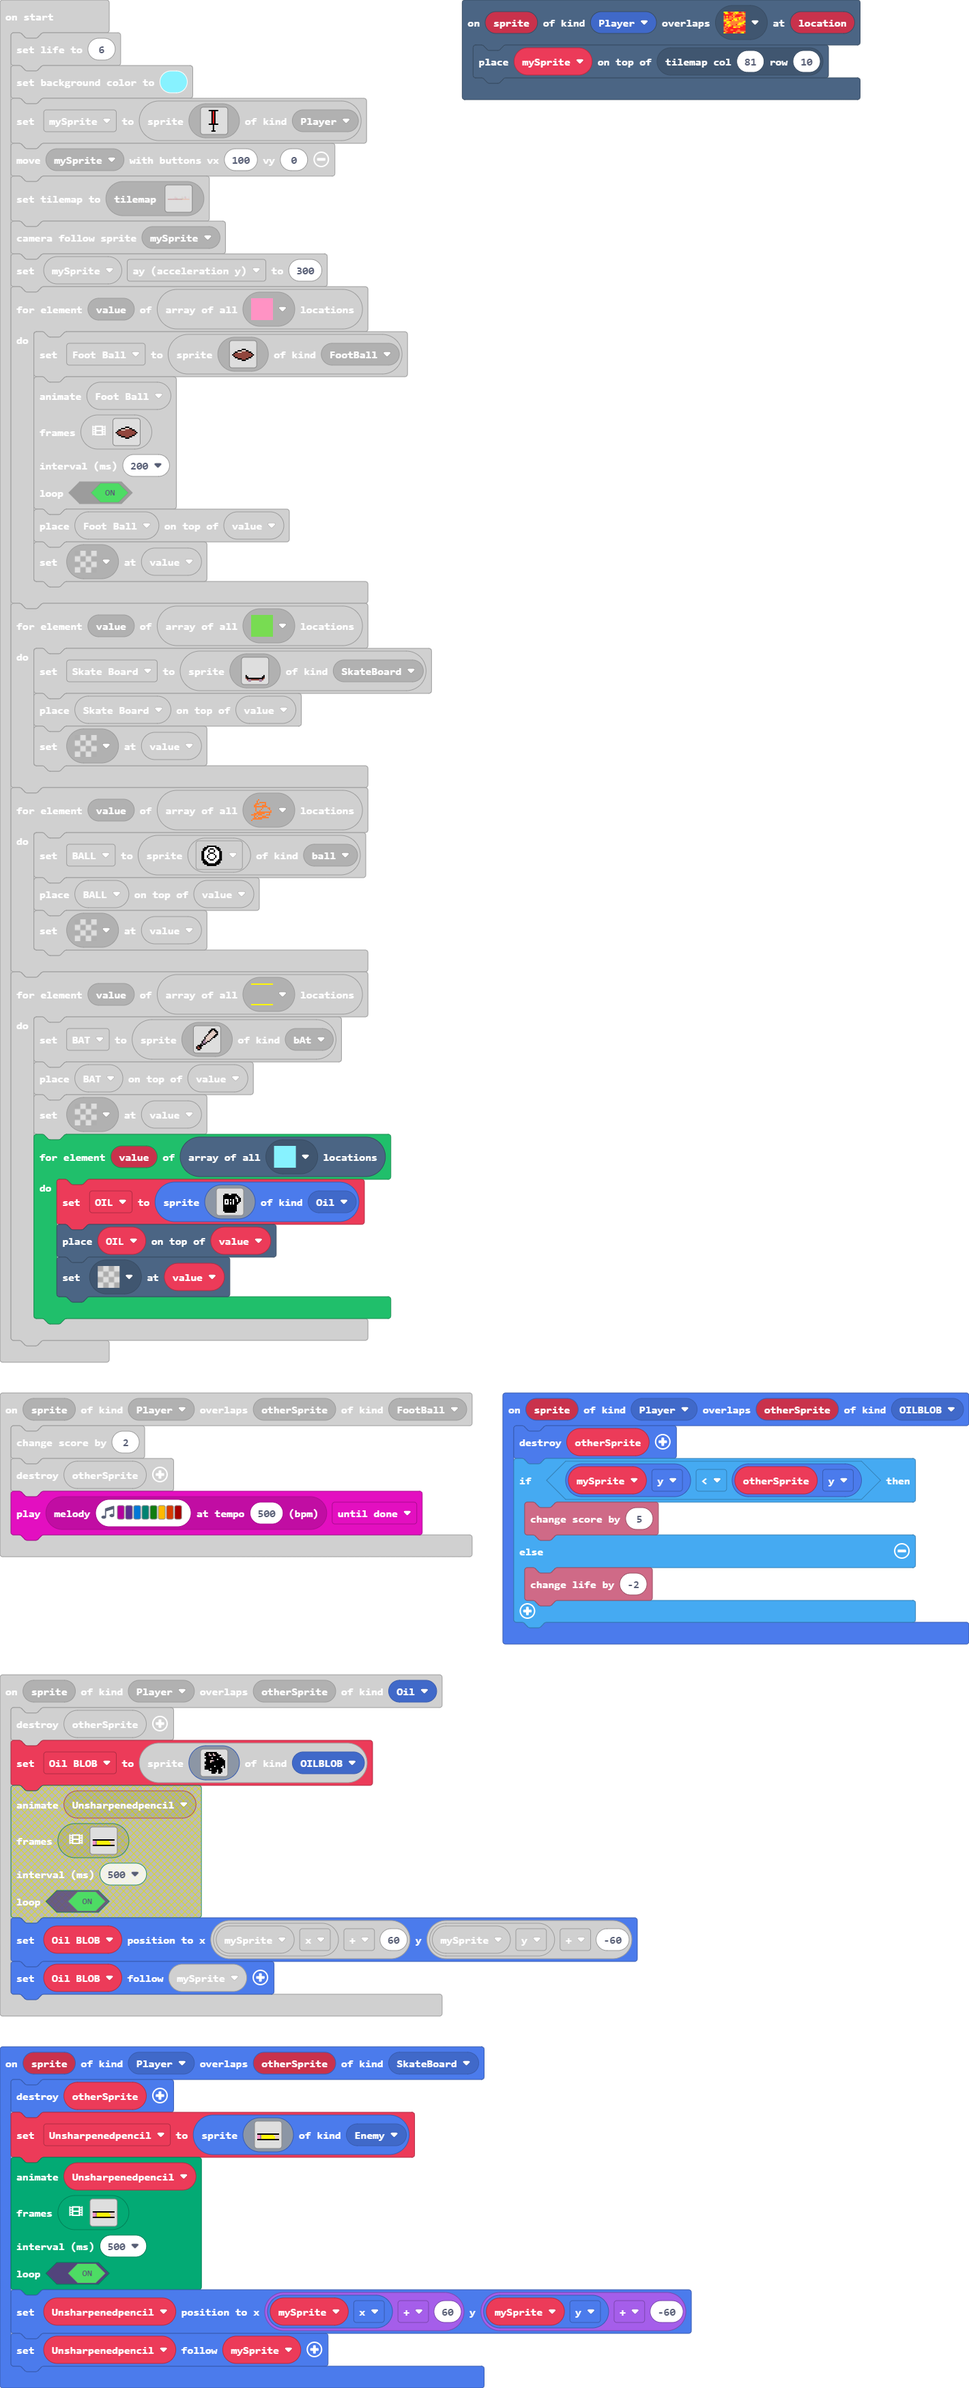
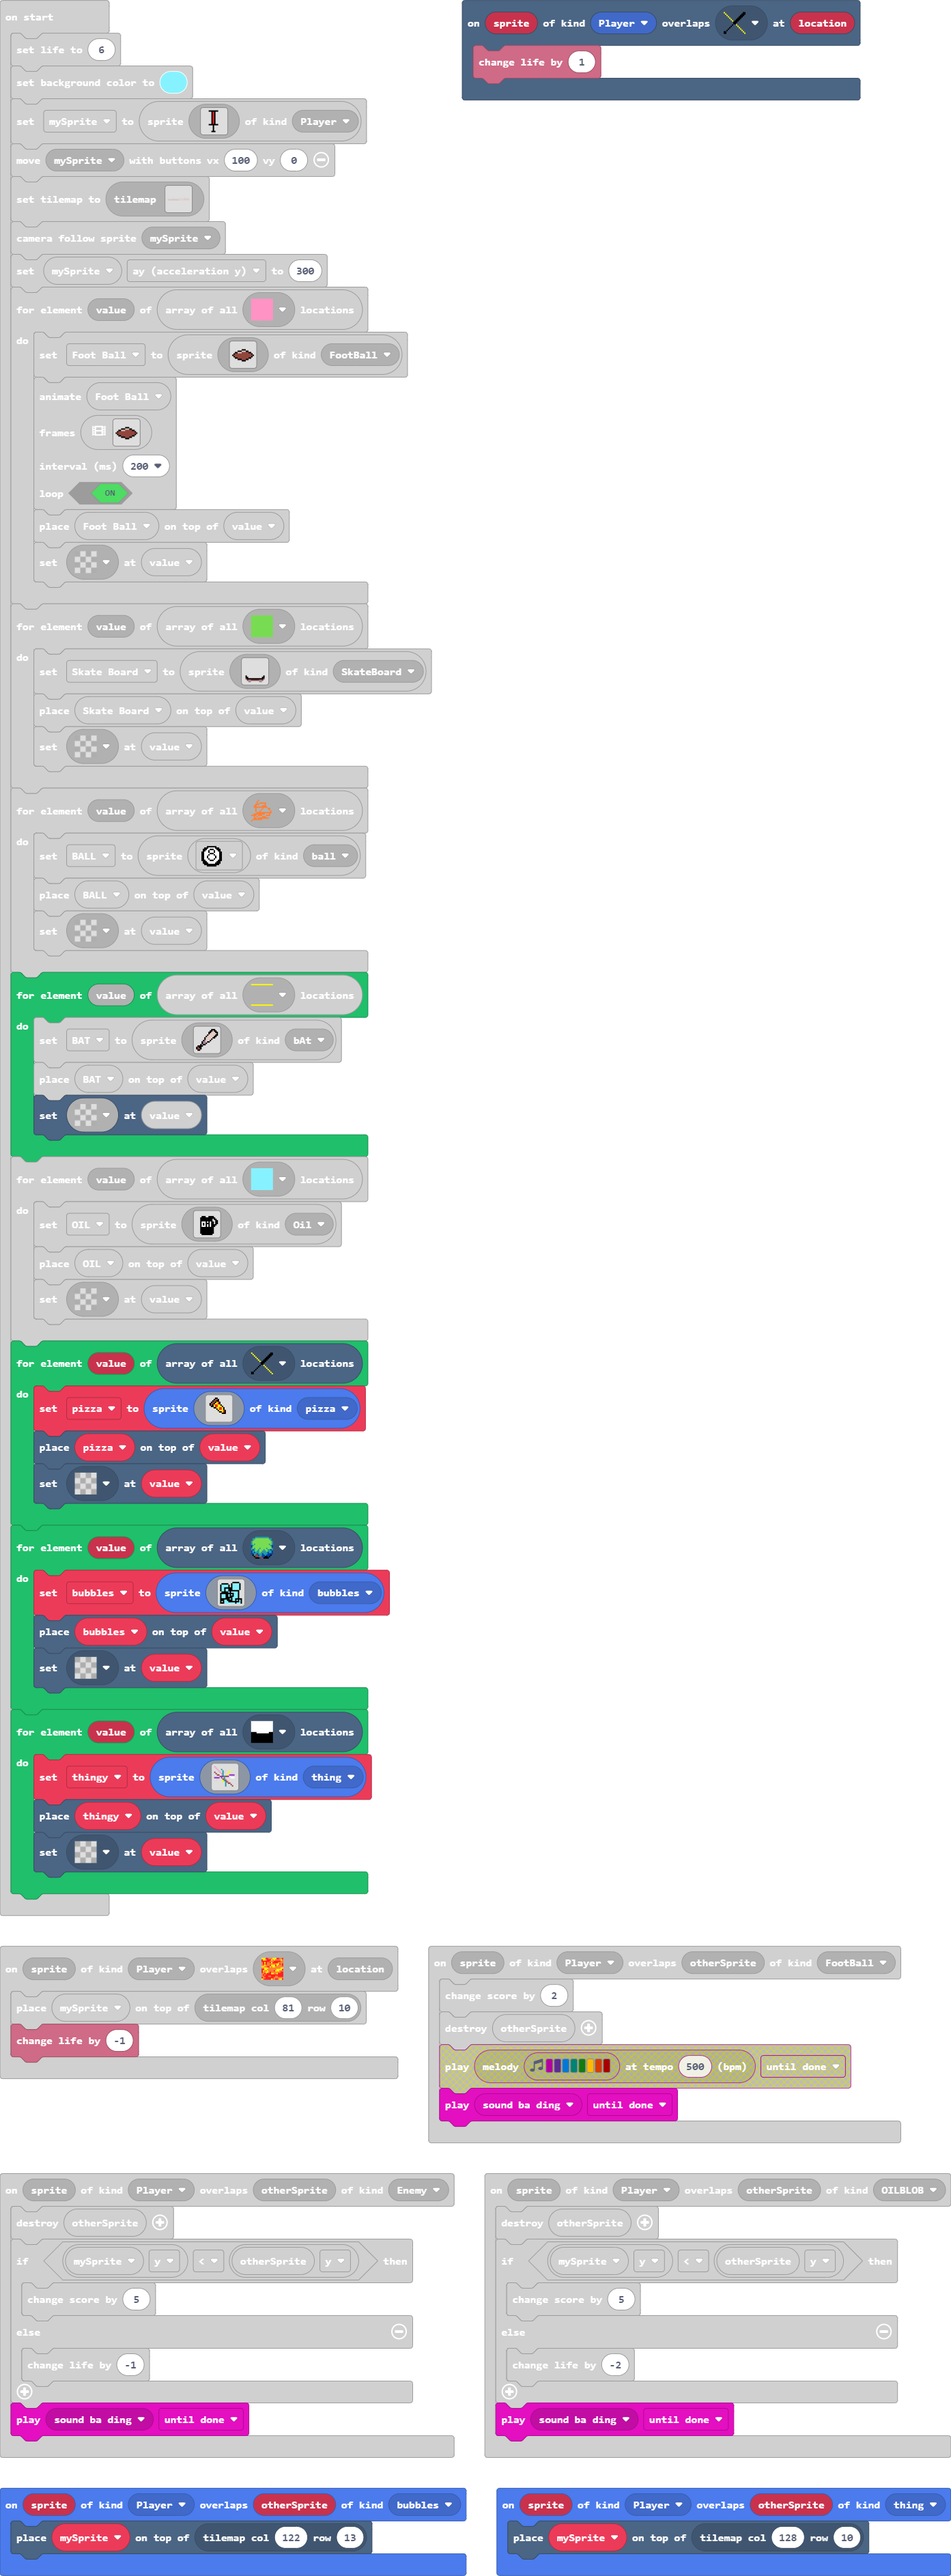
Update pxt.json, main.blocks, main.ts, tilemap.g.jres, tilemap.g.ts

diff --git a/tilemap.g.ts b/tilemap.g.ts
@@ -26,6 +26,10 @@ namespace myTiles {
     export const tile11 = image.ofBuffer(hex``);
     //% fixedInstance jres blockIdentity=images._tile
     export const tile12 = image.ofBuffer(hex``);
+    //% fixedInstance jres blockIdentity=images._tile
+    export const tile13 = image.ofBuffer(hex``);
+    //% fixedInstance jres blockIdentity=images._tile
+    export const tile14 = image.ofBuffer(hex``);
 
     helpers._registerFactory("tilemap", function(name: string) {
         switch(helpers.stringTrim(name)) {
@@ -49,24 +53,24 @@ namespace myTiles {
 . . . . . . . . . . . . . . . . 
 `, [myTiles.transparency16], TileScale.Sixteen);
             case "level2":
[1 lines of base64/hex data omitted]
-........................................2.......................................2.......................................
-........................................2.......................................2.............222.2...................2.
-........................................2.......................................2............2..2.2.....................
-........................................2.......................................2...........2...2.2.................2...
-........................................2.........2.............................2..........2....2.2.....................
-........................................2.........2.............................2.........2.....2.2................2....
-........................................2.........2.............................2........2......2.2.....................
-.......................................22.........2.............................2.......2.......2.2..................2..
-........................................2.........2.............................2......2........2.2.....................
-.....................................2..2.........2.............................2.....2.........2.2....................2
-........................................2.......2.2.................222........22....2..........2.2.................2...
-...........22................222...2....2......22.2....2..........2.............2..22...................................
-....................22...22.............2.....222.2.......2..2..2.............2.222..............22.2..2...2......2.....
-.......22......222...............2......22222.....2..2..................2....2..2...............................2.......
-222222..................................2.........2.2......................2....2.......................................
-........................................2.......................................2.......................................
-`, [myTiles.transparency16,myTiles.tile1,myTiles.tile2,myTiles.tile3,myTiles.tile5,myTiles.tile7,myTiles.tile8,myTiles.tile9,myTiles.tile4,myTiles.tile10,myTiles.tile11,myTiles.tile12], TileScale.Sixteen);
[1 lines of base64/hex data omitted]
+........................................2.......................................2.......................................2.......................................
+........................................2.......................................2.............222.2...................2.2.......................................
+........................................2.......................................2............2..2.2.....................2......................222222...........
+........................................2.......................................2...........2...2.2.................2...2......222...........2..2...............
+........................................2.........2.............................2..........2....2.2.....................2...2222................2...............
+........................................2.........2.............................2.........2.....2.2................2....2......2..............2.2...............
+........................................2.........2.............................2........2......2.2.....................2222...2................2...............
+.......................................22.........2.............................2.......2.......2.2.................2...2......2.........22222..2222222222......
+........................................2.........2.............................2......2........2.2.....................2...2222................2........2......
+.....................................2..2.........2.............................2.....2.........2.2....................22......222222222........2........2......
+........................................2.......2.2.................222........22....2..........2...................2...2222...2........2.......2........2222...
+...........22................222...2....2......22.2....2..........2.............2..22...................................2......22........22222222...............
+....................22...22.............2.....222.2.......2..2..2.............2.222..............22.2..2...2......2.....2...2222......................2222....22
+.......22......222...............2......22222.....2..2..................2....2..2...............................2.......2......2..22............22222.......22..
+222222..................................2.........2.2......................2....2.......................................2222...2......2222222...................
+........................................2.......................................2.......................................2.......................................
+`, [myTiles.transparency16,myTiles.tile1,myTiles.tile2,myTiles.tile3,myTiles.tile5,myTiles.tile7,myTiles.tile8,myTiles.tile9,myTiles.tile4,myTiles.tile10,myTiles.tile11,myTiles.tile12,myTiles.tile13,myTiles.tile14,sprites.builtin.forestTiles0], TileScale.Sixteen);
         }
         return null;
     })
@@ -98,6 +102,10 @@ namespace myTiles {
             case "tile11":return tile11;
             case "myTile10":
             case "tile12":return tile12;
+            case "myTile11":
+            case "tile13":return tile13;
+            case "myTile12":
+            case "tile14":return tile14;
         }
         return null;
     })

diff --git a/main.ts b/main.ts
@@ -5,6 +5,9 @@ namespace SpriteKind {
     export const bAt = SpriteKind.create()
     export const Oil = SpriteKind.create()
     export const OILBLOB = SpriteKind.create()
+    export const pizza = SpriteKind.create()
+    export const bubbles = SpriteKind.create()
+    export const thing = SpriteKind.create()
 }
 scene.onOverlapTile(SpriteKind.Player, assets.tile`myTile0`, function (sprite, location) {
     game.gameOver(false)
@@ -19,11 +22,18 @@ sprites.onOverlap(SpriteKind.Player, SpriteKind.OILBLOB, function (sprite, other
     } else {
         info.changeLifeBy(-2)
     }
+    music.play(music.melodyPlayable(music.baDing), music.PlaybackMode.UntilDone)
 })
 controller.up.onEvent(ControllerButtonEvent.Pressed, function () {
     if (mySprite.vy == 0) {
         mySprite.vy = -150
     }
+})
+sprites.onOverlap(SpriteKind.Player, SpriteKind.bubbles, function (sprite, otherSprite) {
+    tiles.placeOnTile(mySprite, tiles.getTileLocation(122, 13))
+})
+scene.onOverlapTile(SpriteKind.Player, assets.tile`myTile12`, function (sprite, location) {
+    info.changeLifeBy(1)
 })
 scene.onOverlapTile(SpriteKind.Player, assets.tile`myTile3`, function (sprite, location) {
     game.gameOver(false)
@@ -31,7 +41,7 @@ scene.onOverlapTile(SpriteKind.Player, assets.tile`myTile3`, function (sprite, l
 sprites.onOverlap(SpriteKind.Player, SpriteKind.FootBall, function (sprite, otherSprite) {
     info.changeScoreBy(2)
     sprites.destroy(otherSprite)
-    music.play(music.stringPlayable("C D E F G A B C5 ", 500), music.PlaybackMode.UntilDone)
+    music.play(music.melodyPlayable(music.baDing), music.PlaybackMode.UntilDone)
 })
 sprites.onOverlap(SpriteKind.Player, SpriteKind.Oil, function (sprite, otherSprite) {
     sprites.destroy(otherSprite)
@@ -107,6 +117,10 @@ sprites.onOverlap(SpriteKind.Player, SpriteKind.SkateBoard, function (sprite, ot
 })
 scene.onOverlapTile(SpriteKind.Player, assets.tile`myTile10`, function (sprite, location) {
     tiles.placeOnTile(mySprite, tiles.getTileLocation(81, 10))
+    info.changeLifeBy(-1)
+})
+sprites.onOverlap(SpriteKind.Player, SpriteKind.thing, function (sprite, otherSprite) {
+    tiles.placeOnTile(mySprite, tiles.getTileLocation(128, 10))
 })
 sprites.onOverlap(SpriteKind.Player, SpriteKind.ball, function (sprite, otherSprite) {
     tiles.placeOnTile(mySprite, tiles.getTileLocation(41, 12))
@@ -118,9 +132,13 @@ sprites.onOverlap(SpriteKind.Player, SpriteKind.Enemy, function (sprite, otherSp
     } else {
         info.changeLifeBy(-1)
     }
+    music.play(music.melodyPlayable(music.baDing), music.PlaybackMode.UntilDone)
 })
 let Unsharpenedpencil: Sprite = null
 let Oil_BLOB: Sprite = null
+let thingy: Sprite = null
+let bubbles: Sprite = null
+let pizza: Sprite = null
 let OIL: Sprite = null
 let BAT: Sprite = null
 let BALL: Sprite = null
@@ -346,26 +364,92 @@ for (let value of tiles.getTilesByType(assets.tile`myTile8`)) {
         `, SpriteKind.bAt)
     tiles.placeOnTile(BAT, value)
     tiles.setTileAt(value, assets.tile`transparency16`)
-    for (let value of tiles.getTilesByType(assets.tile`myTile9`)) {
-        OIL = sprites.create(img`
-            . . . . . . . . . . . . . . . . 
-            . . . . . . . . . . . . . . . . 
-            . . . . f f f . . f f f f . . . 
-            . . . f f f f f f f f f f f . . 
-            . . . f f f f f f f f f . f f . 
-            . . . f f f f f f f f f . . f f 
-            . . . f 1 1 1 f 1 f 1 f f . f f 
-            . . . f 1 f 1 f f f 1 f f . f f 
-            . . . f 1 f 1 f 1 f 1 f f f f . 
-            . . . f 1 1 1 f 1 f 1 f f f . . 
-            . . . f f f f f f f f f f . . . 
-            . . . f f f f f f f f f f . . . 
-            . . . f f f f f f f f f f . . . 
-            . . . f f f f f f f f f f . . . 
-            . . . f f f f f f f f f f . . . 
-            . . . . f f f f f f f f . . . . 
-            `, SpriteKind.Oil)
-        tiles.placeOnTile(OIL, value)
-        tiles.setTileAt(value, assets.tile`transparency16`)
-    }
+}
+for (let value of tiles.getTilesByType(assets.tile`myTile9`)) {
+    OIL = sprites.create(img`
+        . . . . . . . . . . . . . . . . 
+        . . . . . . . . . . . . . . . . 
+        . . . . f f f . . f f f f . . . 
+        . . . f f f f f f f f f f f . . 
+        . . . f f f f f f f f f . f f . 
+        . . . f f f f f f f f f . . f f 
+        . . . f 1 1 1 f 1 f 1 f f . f f 
+        . . . f 1 f 1 f f f 1 f f . f f 
+        . . . f 1 f 1 f 1 f 1 f f f f . 
+        . . . f 1 1 1 f 1 f 1 f f f . . 
+        . . . f f f f f f f f f f . . . 
+        . . . f f f f f f f f f f . . . 
+        . . . f f f f f f f f f f . . . 
+        . . . f f f f f f f f f f . . . 
+        . . . f f f f f f f f f f . . . 
+        . . . . f f f f f f f f . . . . 
+        `, SpriteKind.Oil)
+    tiles.placeOnTile(OIL, value)
+    tiles.setTileAt(value, assets.tile`transparency16`)
+}
+for (let value of tiles.getTilesByType(assets.tile`myTile12`)) {
+    pizza = sprites.create(img`
+        . . . . . f f . . . . . . . . . 
+        . . . . f e e f . . . . . . . . 
+        . . . f e e f f . . . . . . . . 
+        . . f e e f 5 2 f . . . . . . . 
+        . f e e f 5 5 2 f . . . . . . . 
+        . f e f 5 2 2 5 5 f . . . . . . 
+        . . f f 5 2 2 5 5 5 f . . . . . 
+        . . . . f f 5 5 2 2 5 f . . . . 
+        . . . . . . f 5 2 2 5 f . . . . 
+        . . . . . . . f 5 5 5 2 f . . . 
+        . . . . . . . . f f 5 2 f . . . 
+        . . . . . . . . . . f f f . . . 
+        . . . . . . . . . . . . . . . . 
+        . . . . . . . . . . . . . . . . 
+        . . . . . . . . . . . . . . . . 
+        . . . . . . . . . . . . . . . . 
+        `, SpriteKind.pizza)
+    tiles.placeOnTile(pizza, value)
+    tiles.setTileAt(value, assets.tile`transparency16`)
+}
+for (let value of tiles.getTilesByType(sprites.builtin.forestTiles0)) {
+    bubbles = sprites.create(img`
+        . . . . . . . . . f f f f f . . 
+        . f f f f f . . f 9 9 9 9 9 f . 
+        f 9 9 9 9 9 f . f 9 9 9 9 9 f . 
+        f 9 9 9 9 9 f . f 9 9 9 9 9 f . 
+        f 9 9 f f f f f f 9 9 9 9 9 f . 
+        f 9 9 f 9 9 f f f 9 9 9 9 9 f . 
+        f 9 9 f 9 9 f f f f f f f f . . 
+        . f f f f f 9 f 9 9 9 9 9 f . . 
+        f f f f f f f f f f 9 9 9 f . . 
+        f 9 9 9 f f 9 f 9 f 9 9 9 f . . 
+        f 9 9 9 f f 9 f f f 9 9 9 f . . 
+        f 9 9 9 f f f f f 9 9 9 9 f . . 
+        f f f f f f f 9 f 9 9 f f f f f 
+        f f f 9 9 f f f f 9 9 f 9 f 9 f 
+        f 9 f 9 9 9 f f f f f f f f 9 f 
+        f f f 9 9 9 9 9 9 9 9 f 9 9 9 f 
+        `, SpriteKind.bubbles)
+    tiles.placeOnTile(bubbles, value)
+    tiles.setTileAt(value, assets.tile`transparency16`)
+}
+for (let value of tiles.getTilesByType(assets.tile`myTile11`)) {
+    thingy = sprites.create(img`
+        3 . . . . . . . . . . . . . . . 
+        . 3 . . . . . . . . . . . . . . 
+        . . 3 . . 6 . . . . . . . . . . 
+        . . . 3 . . 6 . d . . 5 . . . . 
+        e . . . 3 . 6 d . . 5 . . . . . 
+        . e . . . 3 6 . . . 5 . . . . . 
+        . . e e 1 d 6 . . 5 . a a a a . 
+        . . . . a a a 6 a a a 1 . . . . 
+        a a a a . e . 6 5 . . . 1 1 1 . 
+        . . d . . . e 6 3 . . . . . . . 
+        . d . . . . 5 6 e 3 . . . . . . 
+        . . . . . . 5 . 6 e 3 . . . . . 
+        . . . . . . . . 6 . e e . . . . 
+        . . . . . . . . 6 . . . e . . . 
+        . . . . . . . . 6 . . . . e . . 
+        . . . . . . . . . . . . . . . . 
+        `, SpriteKind.thing)
+    tiles.placeOnTile(thingy, value)
+    tiles.setTileAt(value, assets.tile`transparency16`)
 }
